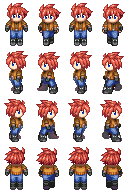
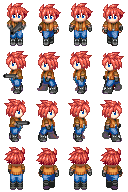
Modified the main character sprite, added the gun ;)

diff --git a/oop15-johnny2d/src/it/unibo/oop/model/Bullet.java b/oop15-johnny2d/src/it/unibo/oop/model/Bullet.java
@@ -25,7 +25,7 @@ public class Bullet extends MovableEntity implements Shot {
     }
 
     public Bullet(final MainCharacter heroPosition) {
-        this(heroPosition.getX(), heroPosition.getY()-MAIN_CHARACTER.getHeight()/5, heroPosition.getMovement());
+        this(heroPosition.getX(), heroPosition.getY(), heroPosition.getMovement());
         // Takes the hero position
         this.setMovement(heroPosition.getLastDirection().getVector2());
         // The movement vector is in the same Hero direction but in another

diff --git a/oop15-johnny2d/src/it/unibo/oop/model/GameStateImpl.java b/oop15-johnny2d/src/it/unibo/oop/model/GameStateImpl.java
@@ -16,8 +16,8 @@ import it.unibo.oop.utilities.Position;
 
 public final class GameStateImpl implements GameState {
 	
-	private static final int BASIC_DEFAULT = 20;
-	private static final int BASIC_SCALE = 4;
+	private static final int BASIC_DEFAULT = 15;
+	private static final int BASIC_SCALE = 3;
 	
 	private static final int INVISIBLE_DEFAULT = 3;
 	
